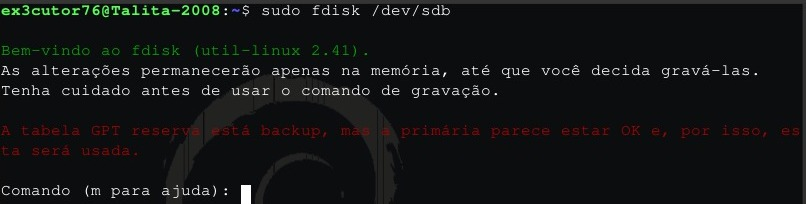
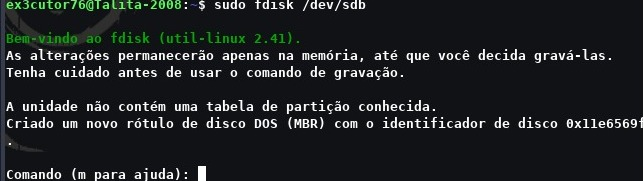
Math'sV21.0.0

Changed region(s): [[0.0, 0.0, 1.0, 1.0]]

diff --git a/Terminal/Formatação de pendrivers/index.html b/Terminal/Formatação de pendrivers/index.html
@@ -18,93 +18,59 @@
     </style>
 </head>
 <body>
-    <h1>Como formatar um pen drive no terminal:</h1>
+<h1>Como formatar um pen driver no Terminal</h1>
 <p></p>
-<h2>Aqui é bem fácil até e vou te ensinar isso porque é bem mais seguro do que instalar um programa no Linux
-    que pode acabar queimando seu pen drive ou bichando ele.
-</h2>
+<h2>Sabe existem 2 formas de formatar um pen drive e bem você que escolhe e essas formas são:</h2>
+<h3>Instalar o gparted (Opção gráfica e mais recomendável se você não quiser passar sufoco)</h3>
+<h3>A parte via texto mesmo (No caso comandos)</h3>
 <p></p>
-<h2>Comando importante:</h2>
-<h2>lsblk -l:</h2>
-<h3>Com esse comando ele irá listar discos e partições do seu computador.</h3>
-<h4>Se quiser ver mais detalhadamente use: lsblk -f</h4>
+<h2>Para instalar o gparted use: sudo apt install gparted</h2>
 <p></p>
-<h2>Como formatar um pen drive pelo terminal?:</h2>
-<h3>Uma coisa bem importante, então recomendo que preste bem atenção:</h3>
-<h3>Primeiro de tudo coloque o seu pen drive na USB.</h3>
-<img src="formatar1.png" width="660" height="360"><h3>Como podem ver neste pen drive para testes coloquei 3 pastas completamente vazias, para o teste
-  e agora vamos formatar este pen drive.
+<h2>Tutorial para formatar um pen driver:</h2>
+<p></p>
+<h3>Comando usado: lsblk</h3>
+<img src="lsblk.png" width="660" height="360">
+<h3>O primeiro passo é saber onde está o pen drive e aqui no meu caso é o sdb, e bem pode depender qual for o seu
+  algumas vezes ele até pode aparecer como sdb1 ou sdb2 ou até igual o meu que foi sdb e bem agora que sabemos um
+  pequeno aviso: Não tente formatar o sda, afinal ele é seu HD ou SSD que fique avisado.
 </h3>
 <p></p>
-<h3>Agora no terminal para listar os drivers digite: lsblk</h3>
-<img src="formatar2.png" width="660" height="360"><h3>Agora que listamos os drivers, como vamos saber qual é o pen driver? Simples, no meu caso por exemplo
-  é o sdb, mas as vezes vem números nesse "sdb", então coloque com forme for no seu (Se caso ter número no sdb coloque como exemplo: sdb1).
-</h3>
+<h3>Comando usado: sudo wipefs -a /dev/sdb</h3>
+<img src="wipefs.png" width="1060" height="360">
+<h3>Bem agora precisamos apagar as assinaturas antigas de sistemas operacionais ou até lixo eletrônico e etc.</h3>
 <p></p>
-<h3>Agora o próximo passo vai ser desmontar com o comando: sudo umount /dev/sdb</h3>
-<img src="formatar3.png" width="660" height="360"><h3>Bem agora que desmontamos o pen driver é hora de formatar.</h3>
+<h3>Comando usado: sudo fdisk /dev/sdb</h3>
+<img src="fdisk.png" width="660" height="360">
+<h3>Bem agora por aqui temos que entrar no fdisk para poder resolver o problema.</h3>
 <p></p>
-<h3>Agora nesse passo final existem diversos (Sem ser o GPT) tipos de formatação sendo eles:</h3>
-<h3>FAT32: Melhor para dispositivos pequenos e para compartilhamento entre diferentes sistemas operacionais.</h3>
-<h3>NTFS: Ideal para sistemas Windows, oferecendo segurança e recursos avançados, entretanto não é compátivel com Linux e MacOS</h3>
-<h3>EXT4: Melhor para sistemas Linux, com alta performance e recursos avançados, mas dificil de usar em outros sistemas operacionais.</h3>
-<h3>E bem agora que você conhece essas diferenças, vamos formatar para FAT32 usando: sudo mkfs.vfat -F 32 /dev/sdb</h3>
-<img src="formatar4.png" width="1060" height="360"><h3>E pronto formatamos nosso pen driver para FAT32.</h3>
-<p></p>
-<h3>Resulto:</h3>
-<img src="formatar5.png" width="660" height="360">
-<p></p>
-<h3>Alguns outros comandos da formatação:</h3>
-<h3>FAT32: sudo mkfs.vfat -F 32 /dev/sdb</h3>
-<h3>NTFS: sudo mkfs.ntfs -f /dev/sdb</h3>
-<h3>EXT4: sudo mkfs.ext4 /dev/sdb</h3>
-<p></p>
-<h1>Atualização 19/01/2026:</h1>
-<p></p>
-<h3>Bem você provavelmente foi formatar deste jeito que ensinei só que veio de forma errada certo?
-  Ou provavelmente deu erro no seu e bem nessa época que ensinei isso, eu estava no Linux Mint, mas 
-  como estou no Debian as coisas funcionaram um pouco diferente do que imaginei, por isso mesmo que 
-  aqui agora vou ensinar a você outro método que também é seguro de formatar um pen drive.
-</h3>
-<h2>Como formatar um pen drive com o fdisk</h2>
-<h3>Bem na maioria das distros já vem com o fdisk mas se caso a sua não vier use: sudo apt install fdisk</h3>
-<p></p>
-<img src="fdisk.png" width="960" height="660">
-<h3>Agora use o comando: sudo fdisk /dev/sdb</h3>
-<h3>Com este comando você entra no fdisk para resolver o problema.</h3>
-<p></p>
-<img src="fdisk2.png" width="960" height="660">
-<h3>Agora coloque a letra "o" e dá enter para criar uma nova tabela.</h3>
-<h3>E bem eu sei que você está desconfortável com essas letras em vermelho mas relaxa isso é normal eu meio que
-  tive alguns erros com esse pen drive, mas estou aprendendo com meus erros e resolvendo eles e claro ensinando a
-  você agora.
-</h3>
-<p></p>
-<img src="fdisk3.png" width="960" height="660">
-<h3>Agora preste bem atenção nessa sequência:</h3>
+<h3>Preste bem atenção na ordem!!</h3>
+<h3>o</h3>
 <h3>n</h3>
 <h3>p</h3>
-<h3>1</h3>
-<h3>2048</h3>
-<h3>Clique em enter 2 vezes</h3>
-<h3>Com isso vai criar uma nova partição.</h3>
+<h3>clique em enter 2 vezes</h3>
+<h3>t</h3>
+<h3>c</h3>
+<h3>w</h3>
+<h3>E se caso não entendeu nada aqui vai explicação:</h3>
+<h3>o = Criar nova tabela MBR</h3>
+<h3>n = nova partição</h3>
+<h3>p = primária</h3>
+<h3>1 = número de partição</h3>
+<h3>Os dois enter é basicamente pra ser o padrão.</h3>
+<h3>t =  mudar tipo</h3>
+<h3>c = FAT32 (No caso o padrão)</h3>
+<h3>w = gravar e sair</h3>
+<h3>E bem é assim que vai aparecer pra você:</h3>
+<img src="fdisk2.png" width="360" height="360">
 <p></p>
-<img src="fdisk4.png" width="960" height="660">
-<h3>Agora o seguinte utilize "t" e dê enter.</h3>
-<h3>Após isso use "c" para selecionar Fat32 (Existem outros como NTFS e Ext4 mas por agora vou ensinar o fat32 que é
-  mais usado.)
+<h3>Comando usado: sudo mkfs.vfat -F32 /dev/sdb1</h3>
+<img src="mkfs.png" width="660" height="360">
+<h3>E prontinho formatado com sucesso e aparecend no thunar e sim eu tive que colocar sdb1 porque o 
+  mkfs meio que rejeitava algumas coisas, mas no final tudo deu certo
 </h3>
 <p></p>
-<img src="fdisk5.png" width="960" height="660">
-<h3>Agora use "w" e enter para salvar.</h3>
+<h2>Mas olha se caso não quiser quebrar a cabeça por causa desses comandos, só instalar o gparted.</h2>
 <p></p>
-<h3>Bem você provavelmente deu "lsblk" para verificar e não apareceu nada certo? Bem agora é só repetirmos o que fizemos antes.
-</h3>
-<h3>No caso usamos o comando: sudo mkfs.vfat -F 32 /dev/sdb1 (No meu caso é /dev/sdb1 se o seu for diferente use também)</h3>
-<p></p>
-<h3>E bem assim resolvemos o problema de formatação de pen drive.</h3>
-<p></p>
-
 
 </body>
 </html>

diff --git a/Terminal/index.html b/Terminal/index.html
@@ -50,7 +50,7 @@ strong {
 
 <li><a href="Básico/index.html">Comandos básicos</a></li>
 <li><a href="Compactar e descompactar/index.html">Compactar e descompactar</a></li>
-<li><strong>Formatação de pen drivers indisponível no momento</strong></li>
+<li><a href="Formatação de pendrivers/index.html">Formatação de Pendrivers</a></li>
 <li><a href="Gerenciador de pacotes/index.html">Gerenciador de pacotes</a></li>
 <li><a href="importante/index.html">Importantes</a></li>
 <li><a href="Jogos via-terminal/index.html">Jogos via terminal</a></li>

diff --git a/index.html b/index.html
@@ -45,10 +45,8 @@ li {
 <thead>
 <th>Novas atualizações no Math's Information: 30/01/2026</th>
 <tr></tr>
-<td>1) Houveram algumas mudanças no sub-tópico: Projetos do Math's Information , recomendo
-  você olhar, afinal, um dos projetos atualizou e pode até te beneficiar.
+<td>1) O sub-tópico Formatação de pen drivers está de volta! E com novas formas de formatar pen driver</td>
 <tr></tr>
-</td>
 </thead>
 </table>
 
